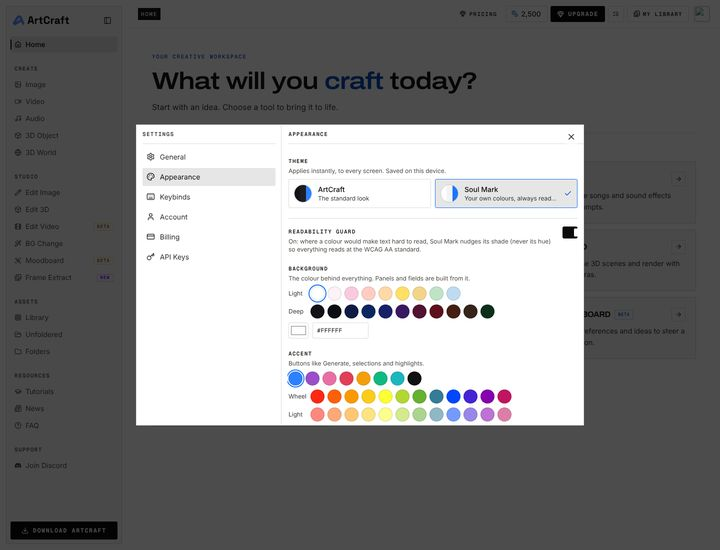
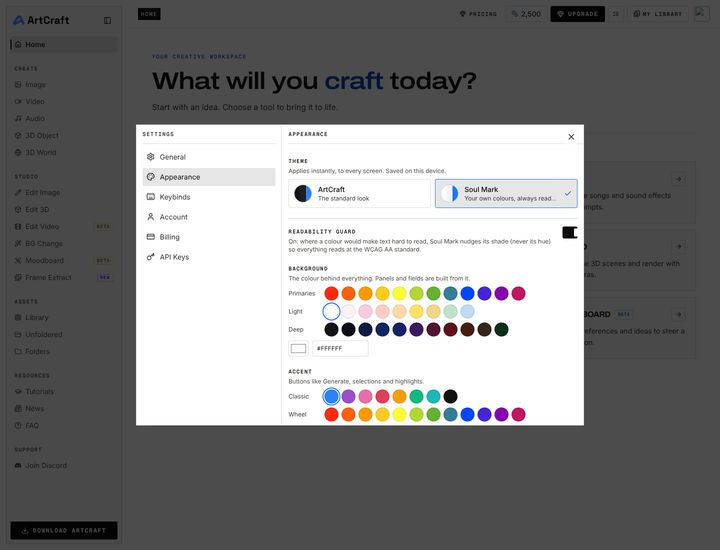
Evidence: background primaries, full background x accent sweep, new panel shots
Claude-Session: [redacted to protect session integrity]

Changed region(s): [[0.3972, 0.4945, 0.7333, 0.7727]]

diff --git a/README.md b/README.md
@@ -132,9 +132,12 @@ There are no charts: the web app uses no chart library. What draws colour:
 
 ## Part 2: Soul Mark
 
-Updated onto main of today; adds the painter's colour wheel (12 hues, each also lighter and deeper:
-36 more accents). 26 tests pass, including a sweep of all 44 ready-made accents over every ready-made
-background.
+Updated onto main of today; adds the painter's colour wheel: 12 hues as accents, each also lighter
+and deeper (36 more accents), and the same 12 hues as a Primaries row of backgrounds. No colour
+appears in more than one row. The tests pass, including a sweep of every ready-made background with
+every ready-made accent at every panel tint and text tone: 12,672 combinations, all text readable.
+With the guard on, Soul Mark keeps each primary's hue and moves its shade where text would not read
+(only Yellow reads as it is); with the guard off they are used exactly and marked where they fall short.
 
 **Theme off, the app is unchanged.**
 
